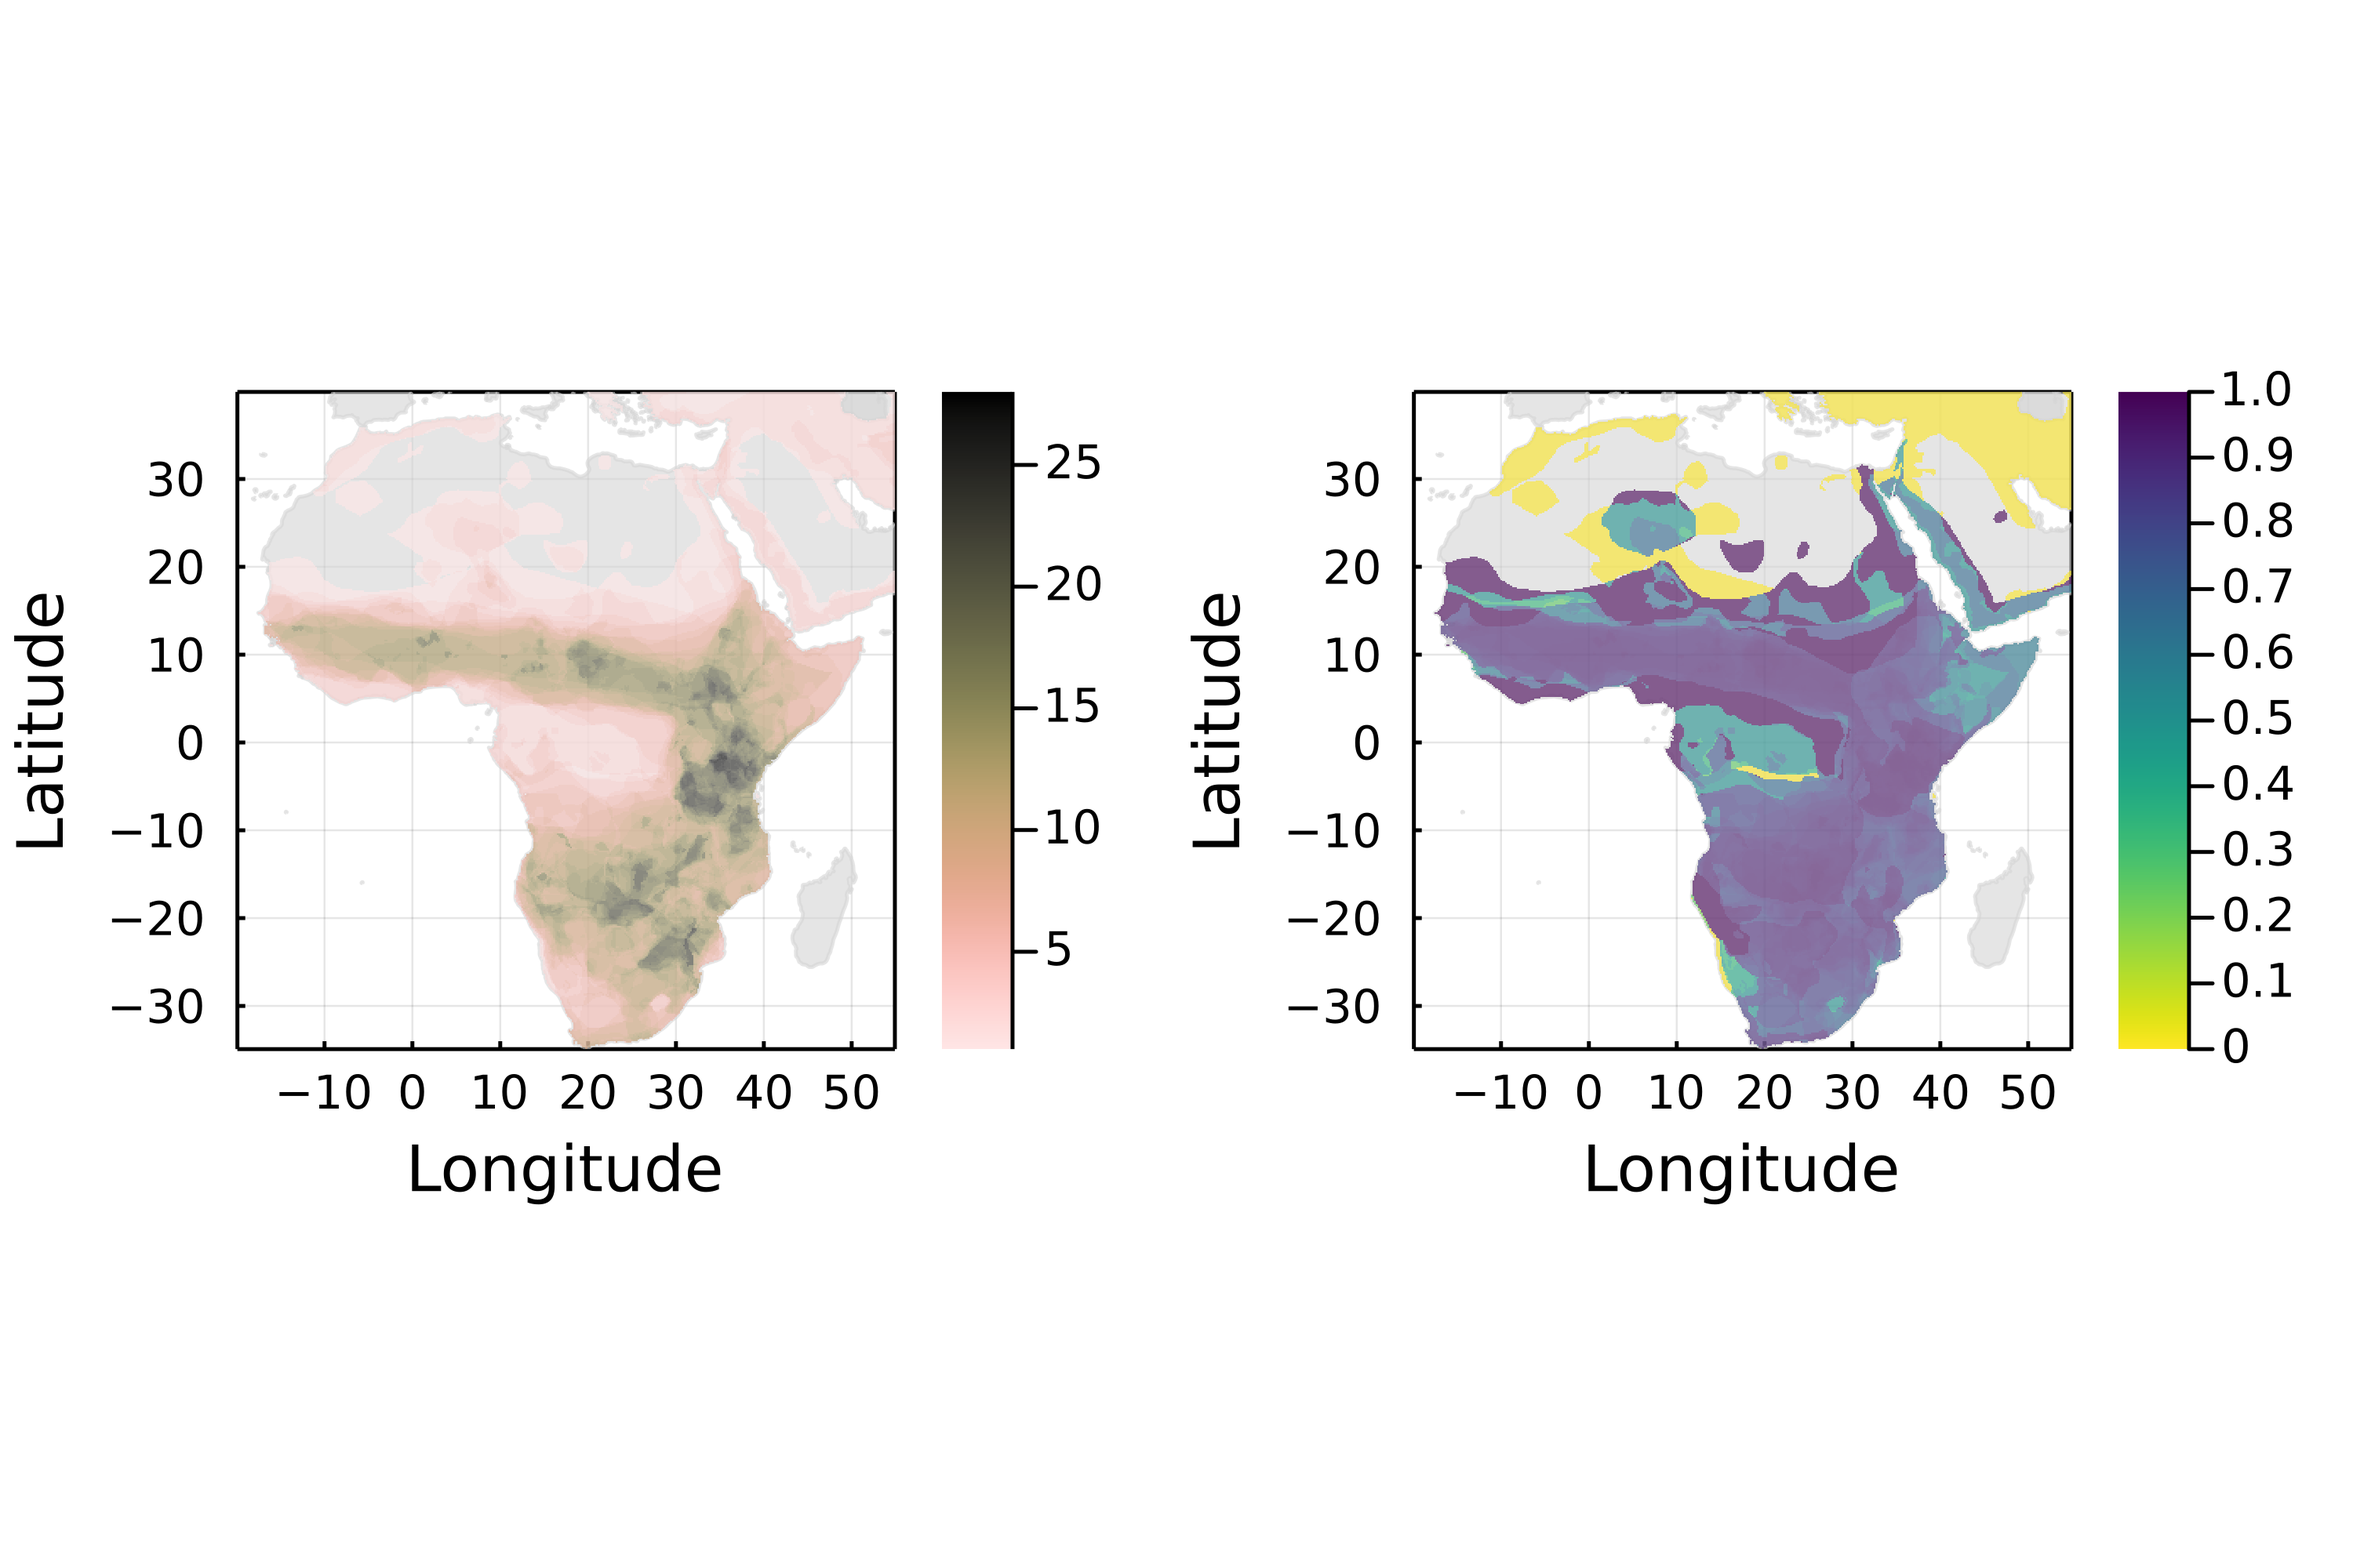
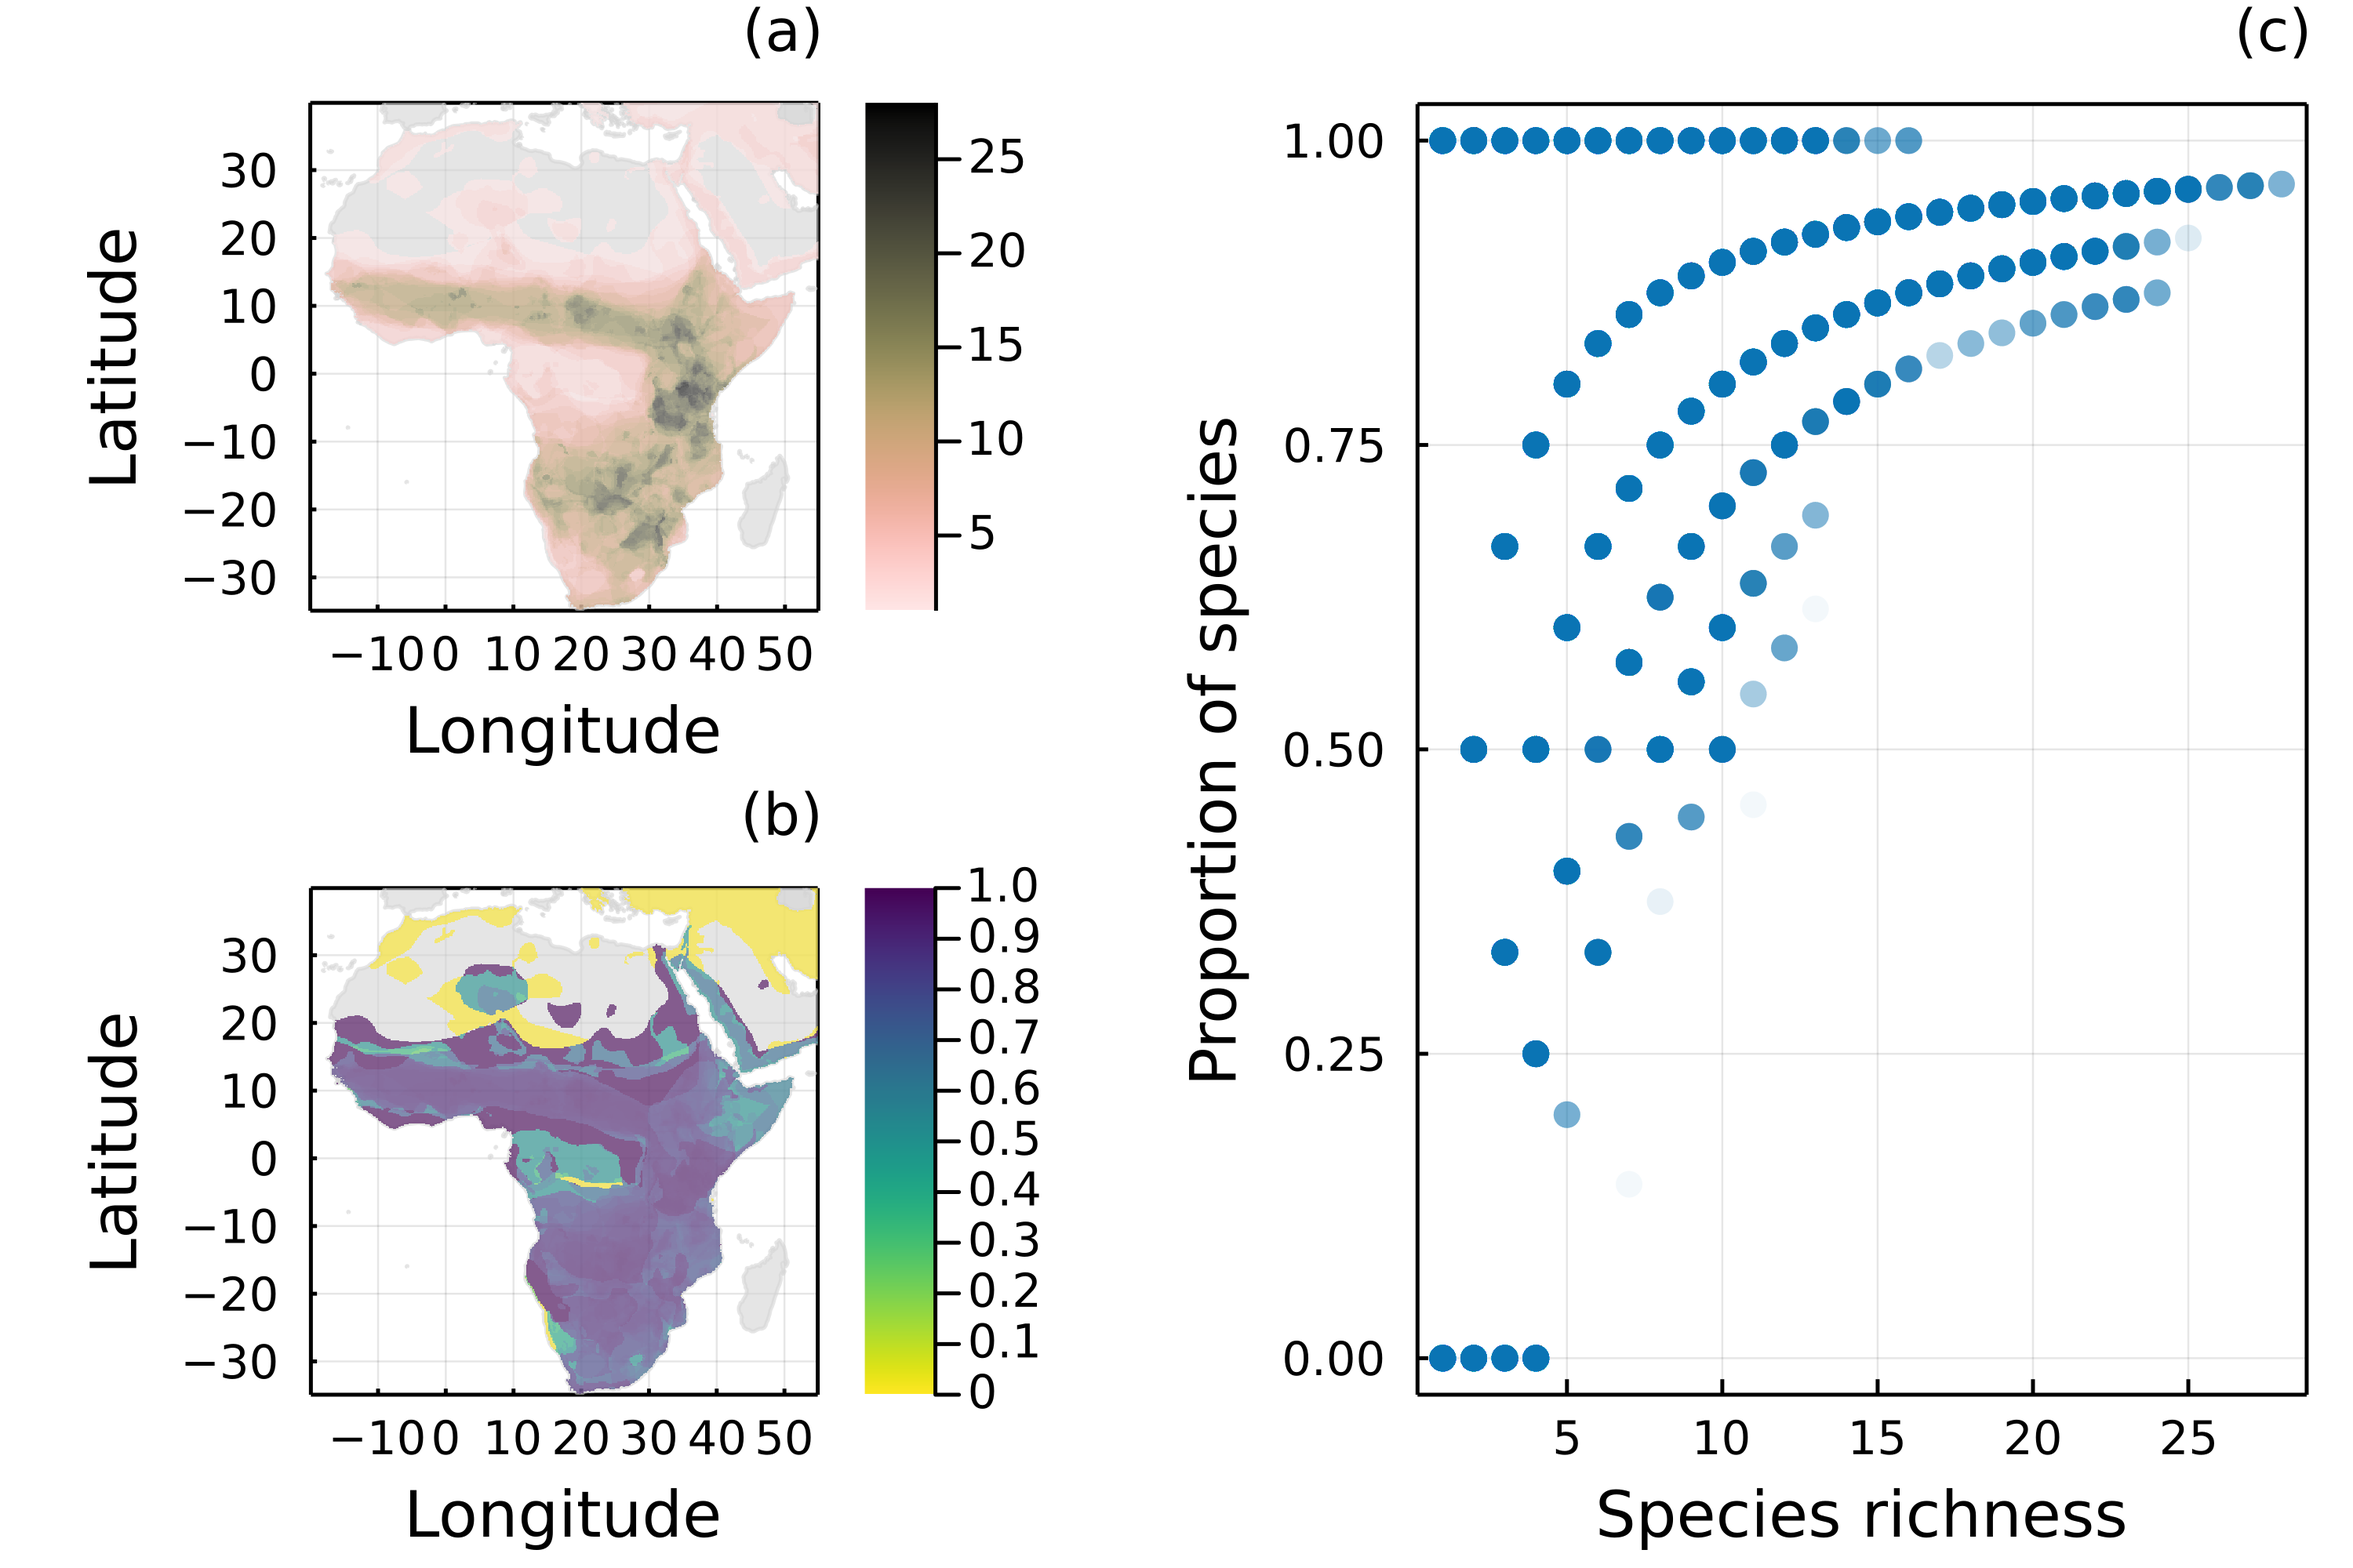
✨ add right panel of figure 1

diff --git a/manuscript.md b/manuscript.md
@@ -206,10 +206,10 @@ addition, many networks (16.6%) only had disconnected mammals; these networks
 however all had a very low number of mammal species, specifically between 1 and
 4 (from a total of 32). 
 
-![Left panel: spatial distribution of species richness according to the original 
-IUCN range maps of all 32 mammal species of the Serengeti food web. Right panel:
-proportion of mammal species remaining in each local network (i.e. each pixel)
-after removing all species without a path to a primary producer.](figures/richness_prop_removed.png){#fig:richness}
+![(a) Spatial distribution of species richness according to the original 
+IUCN range maps of all 32 mammal species of the Serengeti food web. (b)
+Proportion of mammal species remaining in each local network (i.e., each pixel)
+after removing all species without a path to a primary producer. (c) Proportion of mammal species remaining in each local network as a function of the number of species given by the original IUCN range maps.](figures/richness_prop_removed.png){#fig:richness}
 
 ## Specialized predators lose more range
 
